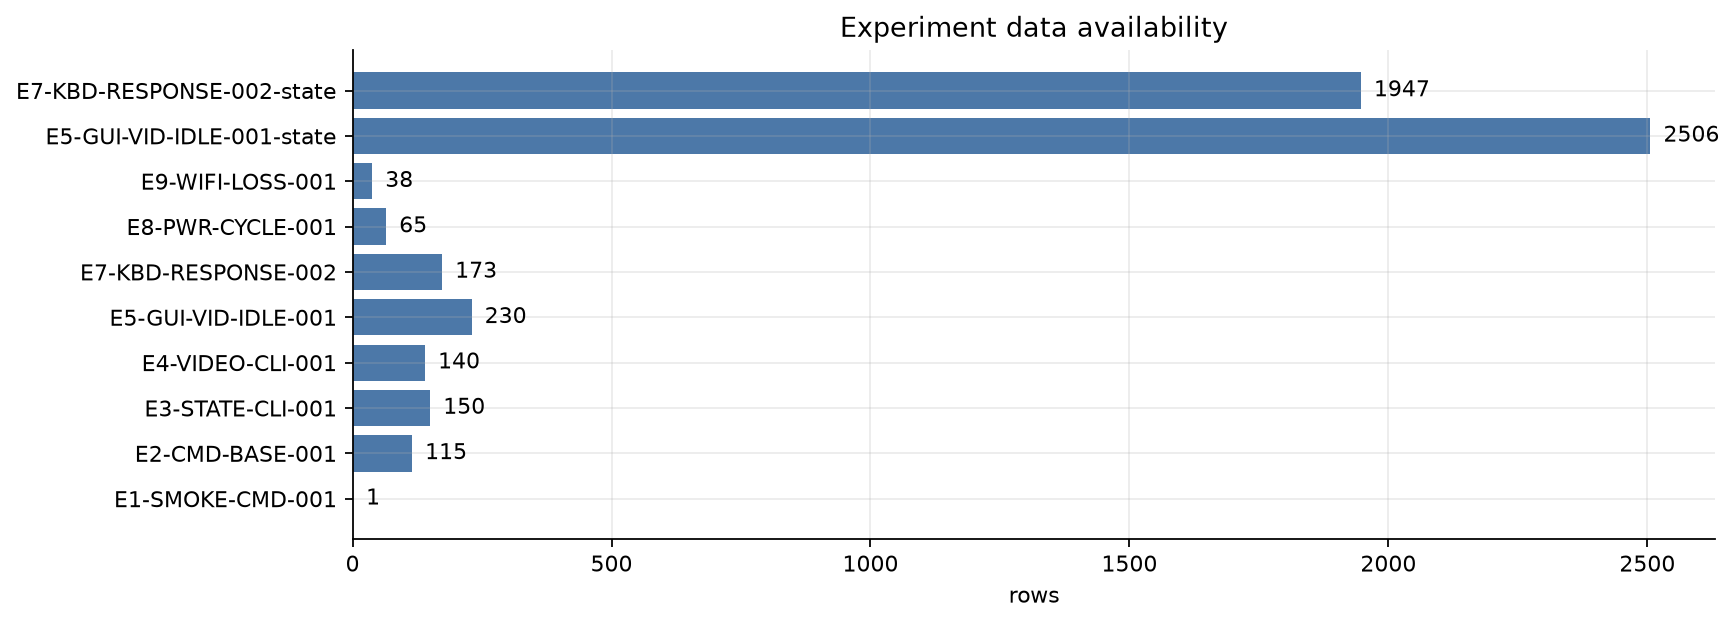
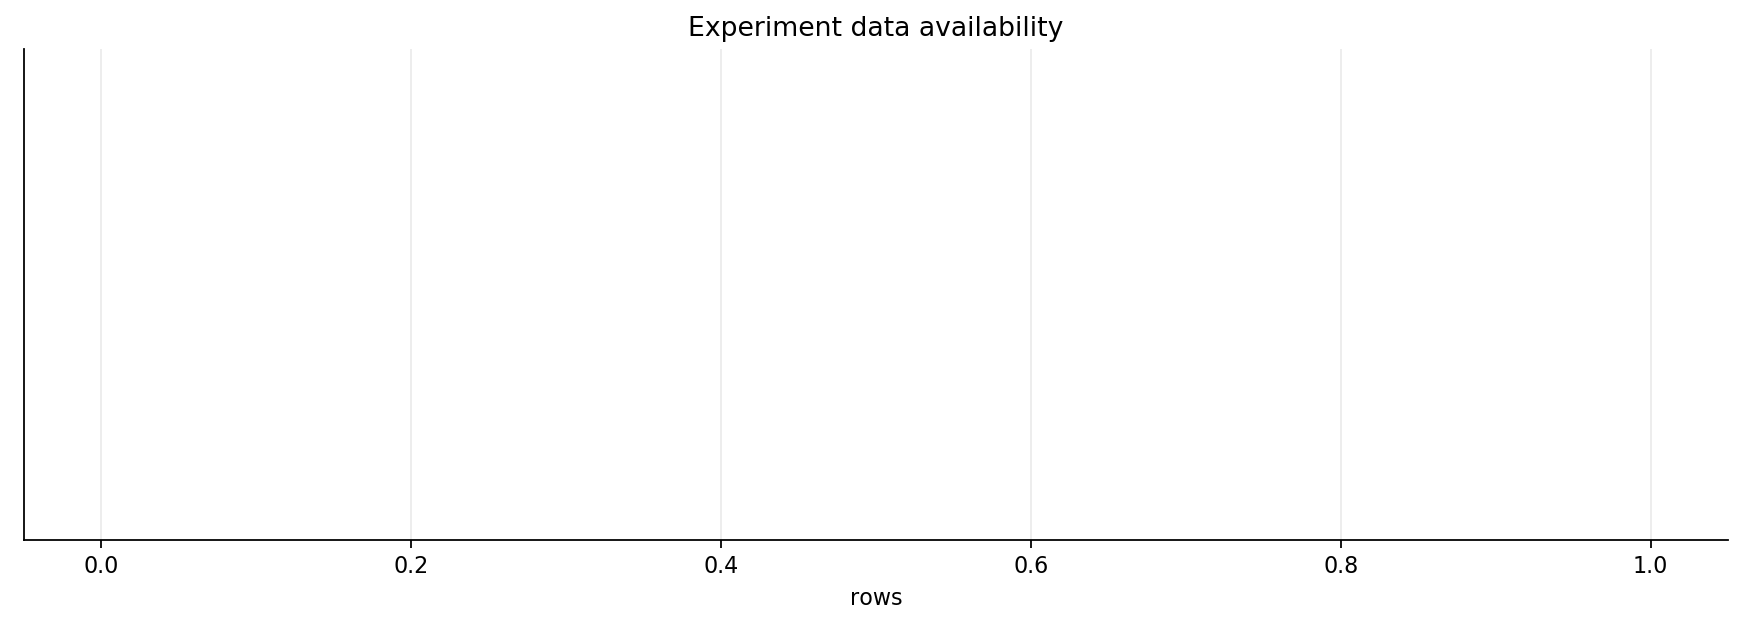
Adjusts on report

diff --git a/docs/CS500_final_report_draft.md b/docs/CS500_final_report_draft.md
@@ -8,7 +8,7 @@
 
 ## Abstract
 
-This project developed and evaluated a modular C++ software stack for communicating with, monitoring, and controlling a DJI Tello drone. A reusable core library owns UDP command execution, asynchronous telemetry, FFmpeg video decoding, runtime metrics, recovery, and safety-oriented RC control. Command-line tools and a Qt Control Panel reuse that core for diagnosis, live operation, visualization, CSV recording, and configurable keyboard flight. A ROS2 bridge was also implemented around the released core artifact.
+This project developed and evaluated a modular C++ software stack for communicating with, monitoring, and controlling a DJI Tello drone. A reusable core library owns UDP command execution, asynchronous telemetry, FFmpeg video decoding, runtime metrics, recovery, and safety-oriented RC control. Command-line tools and a Qt Control Panel reuse that core for diagnosis, live operation, visualization, CSV recording, and configurable keyboard flight. A ROS2 bridge was also implemented around the same core imported and built from source.
 
 Evaluation used repeated real-drone experiments spanning command latency, telemetry continuity, video decoding, GUI scheduling, grounded RC safety, airborne response, drone power-cycle recovery, and host Wi-Fi reconnection. An initially recurring 2.4-3.2 s command blackout under WSL2 motivated a controlled native-Linux reproduction. Every WSL2 command run contained a recovered interruption, whereas 708 native command samples completed with zero retry, timeout, or recovery and physical-interface captures contained a response for every request. Native telemetry remained near 9.88 Hz without gaps of 300 ms or more; native 960×720 video remained near 30 fps; GUI and flight runs retained fresh telemetry/video; grounded RC returned to neutral without unsafe nonzero output; and all recorded power-cycle and Wi-Fi interruption trials recovered. The results support native Linux as the deployment environment and demonstrate a reusable experimental basis for future closed-loop work.
 
@@ -299,8 +299,8 @@ The main services exposed by the driver are:
 | `/tello/takeoff` | `std_srvs/srv/Trigger` | request takeoff through the ROS command owner |
 | `/tello/land` | `std_srvs/srv/Trigger` | request landing through the ROS command owner |
 | `/tello/emergency` | `std_srvs/srv/Trigger` | request emergency motor stop |
-| `/tello/streamon` | `std_srvs/srv/Trigger` | enable video streaming |
-| `/tello/streamoff` | `std_srvs/srv/Trigger` | disable video streaming |
+| `/tello/stream_on` | `std_srvs/srv/Trigger` | enable video streaming |
+| `/tello/stream_off` | `std_srvs/srv/Trigger` | disable video streaming |
 | `/tello/enable_autonomy` | `std_srvs/srv/Trigger` | allow `/tello/cmd_vel` to control the drone |
 | `/tello/disable_autonomy` | `std_srvs/srv/Trigger` | block autonomous command input |
 | `/tello/gui_command` | `tello_interfaces/srv/Command` | forward a GUI-requested SDK command through the broker |
@@ -311,7 +311,7 @@ The driver also exposes services for connect, disconnect, takeoff, land, emergen
 
 The Qt Control Panel is shared through the ROS-neutral `ControlBackend` contract. The standalone executable `tello_control_panel` injects `StandaloneBackend`, which owns `TelloClient`, `StateReceiver`, FFmpeg, keepalive, and recovery. The ROS executable `tello_control_panel_ros` injects `RosBackend`, which owns only an `rclcpp` node, service clients, publishers, subscribers, and an executor thread. It consumes state, connection, link-quality, runtime-metrics, and video topics, publishes manual RC on `/tello/manual_cmd_vel`, and invokes driver services. Consequently, there is no runtime flag that can accidentally make the standalone executable compete for the ROS driver's UDP sockets.
 
-The ROS launch path was also validated in basic real-drone operation. In this validation, the bringup launch started the driver and Control Panel, the GUI connected to the drone through `/tello/connect`, telemetry and video were visible through the ROS-mode GUI, and the ROS topics and services were available for external inspection and tooling.
+The ROS launch path was also validated in real-drone operation through E10. The observed graph contained exactly the application nodes `/tello/tello_driver_node` and `/tello_control_panel_ros`, in addition to the standard ROS infrastructure. The expected Tello topic surface was discoverable, including state, battery, connection state, diagnostics, link quality, runtime metrics, decoded video, autonomous velocity input, and manual velocity input. The driver exposed connect/disconnect, takeoff/land/emergency, stream on/off, autonomy, and GUI-command services. Two consecutive live `/tello/link_quality` messages reported `overall: OK`, `score: 100`, `safe_for_nonzero_rc: true`, and `telemetry=OK; video=OK; command=OK`. The RC substate was `NO_DATA` with no blackout or safety override because no manual RC input was active during this stationary inspection. This validates live ROS transport through the single-owner driver and shared Control Panel without claiming publish-rate or flight-RC measurements that were not recorded in the terminal run.
 
 ### 4.8 Standalone Build And Operation
 
@@ -485,7 +485,7 @@ The campaign was designed as a sequence of isolation experiments. Each stage add
 | E7 | Add flight dynamics under combined command, RC, telemetry, video, and GUI load |
 | E8 | Test complete session recovery after restarting the drone |
 | E9 | Isolate host Wi-Fi loss without intentionally restarting the drone |
-| E10 | Define end-to-end ROS2 acceptance for the released core and bridge |
+| E10 | Validate end-to-end ROS2 acceptance for the source-built core and bridge |
 
 E2 and E3 were the decision point for the operating environment. The WSL2 command path crossed the Linux UDP socket, WSL virtual networking, Hyper-V/Windows networking, the Windows Wi-Fi stack, and the physical radio. Native Linux removed the virtualized and Windows layers while preserving the C++ client, command interval, drone, and physical adapter. Later experiments were native-only because repeating flight and GUI tests on a platform already associated with periodic command interruption would add risk without answering a new project question.
 
@@ -533,7 +533,7 @@ E9 kept the drone powered while the host temporarily left and rejoined the Tello
 
 ### 6.11 E10: ROS2 Acceptance
 
-E10 specifies an end-to-end acceptance run for the driver ownership model, telemetry/video/link-quality publishers, command services, RC input, and ROS-mode Control Panel. The software implementation is described in Section 4.7. However, no CSV, rosbag, launch transcript, or other structured E10 artifact was retained with the final experiment evidence, so the report does not assign quantitative ROS2 acceptance results.
+E10 performed an end-to-end acceptance run with the real drone connected. The terminal inspection found both expected application nodes, all expected Tello topics, and the complete driver service surface. Consecutive `/tello/link_quality` samples reported an overall score of 100, marked nonzero RC as safe, and classified telemetry, video, and command as OK. `rc: NO_DATA` was expected because the inspection did not send manual RC commands. The run therefore supplies qualitative functional acceptance of the source-built ROS workspace, driver, shared Control Panel, live telemetry/video health, and service/topic exposure. It does not provide quantitative topic rates, callback latency, RC cadence, or recovery measurements because no rosbag or metrics capture was recorded for E10.
 
 ## 7. Results
 
@@ -542,6 +542,22 @@ E10 specifies an end-to-end acceptance run for the driver ownership model, telem
 All WSL2 E2 runs completed without a final public-command failure, but every one contained a recovered multi-attempt interruption. Routine per-run medians were approximately 32-34 ms and steady p95 values 36-38.5 ms. Diagnostic captures showed blackout windows of 2.401-3.180 seconds: outgoing requests remained visible at the WSL capture interface while incoming command responses were absent, after which SDK recovery restored operation. This rules out failure to call the UDP send path, but the WSL capture position cannot distinguish Hyper-V/NAT, Windows firewall or Wi-Fi management, the Windows driver, radio loss, or temporary drone silence.
 
 The native result changed both routine performance and failure behavior. Across three primary and three captured native runs, all 708 command samples succeeded with zero retry, timeout, recovery, or multi-attempt command. Every physical-interface PCAP contained 119 outgoing requests and 119 matching responses. Per-run medians were 19 ms and steady p95 values 21-22 ms. Captured and uncaptured native groups were nearly identical, so packet capture did not materially change routine latency.
+
+The temporal contrast makes the environment difference more visible than aggregate statistics alone. The upper panel contains the six WSL2 runs: every run contains a recovered multi-second delay in the recurring 64.3-65.7 second window. The lower panel contains the six matched native runs: none of 708 samples exceeded 200 ms, including the corresponding 60-66 second interval.
+
+![WSL2 recurring delay and matched native timeline](../results/final_repeated/analysis_images/e2_wsl_native_temporal_contrast.png)
+
+The internal timing decomposition shows that the delayed calls were dominated by accumulated executor receive-wait time. Plotting, CSV formatting, response parsing, and other local overhead account for only a small part of the recurring multi-second calls. Most recurring events required four internal attempts; the high-level `battery?` operation nevertheless returned successfully after SDK recovery. The shorter isolated delays in WSL2 R02 are retained in the figure rather than being removed from the analysis.
+
+![Internal timing of delayed E2 commands](../results/final_repeated/analysis_images/e2_delayed_command_timing.png)
+
+Packet capture provides a second, independent view of the same interruption. For this analysis, outgoing UDP payload length 8 identifies `battery?`, length 7 identifies `command`, incoming length 2 identifies `ok`, and the other short incoming payloads are battery values. The PCAP clock begins at the first captured SDK packet and is slightly offset from CSV elapsed time, so correlation uses event order and blackout duration rather than assuming identical timestamp origins.
+
+All three WSL2 diagnostic captures show `battery?` requests continuing to leave the host while no corresponding incoming value is observed during the shaded interval. Incoming traffic resumes with the SDK recovery exchange and subsequent battery response. D01, D02, and D03 contain request-without-immediate-reply windows of 2.407, 2.401, and 3.180 seconds, respectively. This directly rules out failure by the application to call its UDP send path during the captured events. Because capture occurred at the WSL2 interface rather than the Windows physical Wi-Fi adapter, it does not distinguish loss in WSL/Hyper-V networking, Windows firewall or WLAN management, the Wi-Fi driver, radio transport, or temporary drone silence.
+
+![WSL2 command-channel packets around each E2 interruption](../results/final_repeated/analysis_images/e2_pcap_blackout_timeline.png)
+
+The separate run-level comparison below summarizes ordinary operation rather than transient timing. It shows that native Linux also reduced routine median and steady p95 latency, while retaining each run as the independent unit.
 
 ![WSL2 and native E2 comparison](../results/final_repeated/analysis_images/e2_wsl_vs_native_comparison.png)
 
@@ -616,7 +632,13 @@ E9 also recovered in 3/3 host-Wi-Fi trials. The first successful command followe
 
 E8 ran for approximately 84 seconds rather than the nominal 180 seconds and E9 for approximately 81-82 seconds rather than 120 seconds. The recovery endpoints were reached in every recorded window, but the runs do not establish long post-recovery endurance.
 
-### 7.8 Result Summary
+### 7.8 ROS2 End-to-End Acceptance
+
+E10 passed the recorded functional checks with the drone online. `ros2 node list` showed the sole UDP-owning driver and the ROS Control Panel as separate nodes. The graph exposed nine Tello application topics: battery, autonomous velocity input, connection state, diagnostics, link quality, manual velocity input, runtime metrics, state, and decoded video. It also exposed ten application services: connect, disconnect, takeoff, land, emergency, stream on/off, autonomy enable/disable, and GUI command forwarding. Standard per-node parameter services were present but are not counted as Tello application services.
+
+Two consecutive link-quality messages, one second apart, reported `overall=OK`, `score=100`, `safe_for_nonzero_rc=true`, and OK telemetry, video, and command components. Both showed zero RC blackouts and no RC safety override. The RC component remained NO_DATA because no RC command stream was active, so this observation validates idle online health rather than RC actuation. The evidence demonstrates ROS discovery, live driver publication, source-built GUI integration, and the intended single-owner communication path. Topic frequency, end-to-end command latency, and RC behavior remain outside the quantitative scope of this E10 run.
+
+### 7.9 Result Summary
 
 | Experiment | Final evidence |
 |---|---|
@@ -629,7 +651,7 @@ E8 ran for approximately 84 seconds rather than the nominal 180 seconds and E9 f
 | E7 | Three completed flights; fresh telemetry/video; direct yaw and vertical response evidence |
 | E8 | 3/3 full command/telemetry/video recoveries |
 | E9 | 3/3 command reconnects after host Wi-Fi loss |
-| E10 | Implementation exists, but no structured acceptance artifact was retained |
+| E10 | Functional acceptance passed: expected nodes/topics/services and two live 100/OK link-quality samples |
 
 ## 8. Discussion
 
@@ -645,6 +667,8 @@ The dynamic-response analysis is deliberately conservative. The Tello telemetry 
 
 Finally, E8 and E9 show two different recovery paths: rebuilding a complete command/telemetry/video session after drone restart, and restoring synchronous commands after host Wi-Fi loss. Both succeeded in every recorded trial. The shortened recorded durations limit endurance claims but do not erase the observed recovery milestones.
 
+E10 closes the architectural loop by showing the source-imported core, ROS driver, and shared Control Panel operating together with the real drone. The discovered graph matches the intended ownership model, while the live link-quality messages show that telemetry, video, and command health reached OK through ROS. Since no RC stream or rate measurement was recorded, the result is functional acceptance rather than a ROS performance benchmark.
+
 ## 9. Limitations
 
 1. The campaign used one DJI Tello, one native host, one adapter, and one physical test environment.
@@ -653,13 +677,13 @@ Finally, E8 and E9 show two different recovery paths: rebuilding a complete comm
 4. E6, E8, and E9 recorded shorter windows than specified by the protocol; E6 profile/aggression/mapping metadata were incomplete.
 5. E7 uses onboard telemetry rather than external motion capture. Horizontal response relies on roll/pitch proxies, and 10 Hz telemetry quantizes latency.
 6. The campaign does not evaluate maximum distance, thermal endurance, subjective image quality, or closed-loop position control.
-7. No structured E10 ROS2 acceptance artifact was retained, so ROS2 runtime performance is not quantified in the results.
+7. E10 retained terminal-level functional evidence but no rosbag or rate/latency capture; ROS2 runtime performance and active RC behavior are therefore not quantified.
 
 ## 10. Future Work
 
 Future work should prioritize evidence and control readiness rather than adding parallel communication paths:
 
-1. repeat E10 with a retained launch transcript or rosbag covering telemetry, video, link quality, services, RC input, and GUI/manual ownership;
+1. extend E10 with a rosbag and rate/latency capture covering telemetry, video, services, active RC input, and GUI/manual ownership;
 2. record the active keyboard profile, aggression, and mappings directly in experiment metadata;
 3. use external motion capture or vision tracking to estimate translational response and fit a dynamic model;
 4. run randomized native/Windows-side diagnostics only if exact WSL2 root-cause localization remains necessary;
@@ -673,7 +697,7 @@ The project delivered a modular C++ Tello runtime with reusable command, telemet
 
 The central investigation resolved the practical deployment question. WSL2 produced a recovered 2.4-3.2 second command interruption in every run, while 708 native command samples completed without retry, timeout, or recovery and native physical-interface captures showed complete request/response pairs. Native telemetry, video, GUI, grounded RC, and flight tests then remained stable under their recorded workloads. Power-cycle and host-Wi-Fi recovery succeeded in all three trials each.
 
-The evidence supports native Linux as the runtime environment for this system. It also supports the core engineering claims: shared communication ownership, diagnosable transport behavior, approximately 30 fps video, responsive GUI scheduling, bounded RC neutral return, observable flight response, and multi-channel recovery. The principal remaining gaps are precise dynamic identification and a retained end-to-end ROS2 acceptance record.
+The evidence supports native Linux as the runtime environment for this system. It also supports the core engineering claims: shared communication ownership, diagnosable transport behavior, approximately 30 fps video, responsive GUI scheduling, bounded RC neutral return, observable flight response, multi-channel recovery, and functional end-to-end ROS2 integration. The principal remaining gaps are precise dynamic identification and quantitative ROS2 rate, latency, and active-RC measurements.
 
 ## Appendix A: DJI Tello SDK Command Summary
 
@@ -708,7 +732,7 @@ The evidence supports native Linux as the runtime environment for this system. I
 | `E7-KBD-RESPONSE` | airborne keyboard RC response, video, and telemetry behavior |
 | `E8-PWR-CYCLE` | recovery after drone restart |
 | `E9-WIFI-LOSS` | command-channel recovery after Wi-Fi loss |
-| `E10-ROS-END-TO-END` | ROS2 acceptance procedure; no structured run artifact retained |
+| `E10-ROS-END-TO-END` | real-drone ROS2 acceptance with expected graph and live 100/OK link-quality evidence |
 
 ## Appendix C: Build Environment Notes
 
